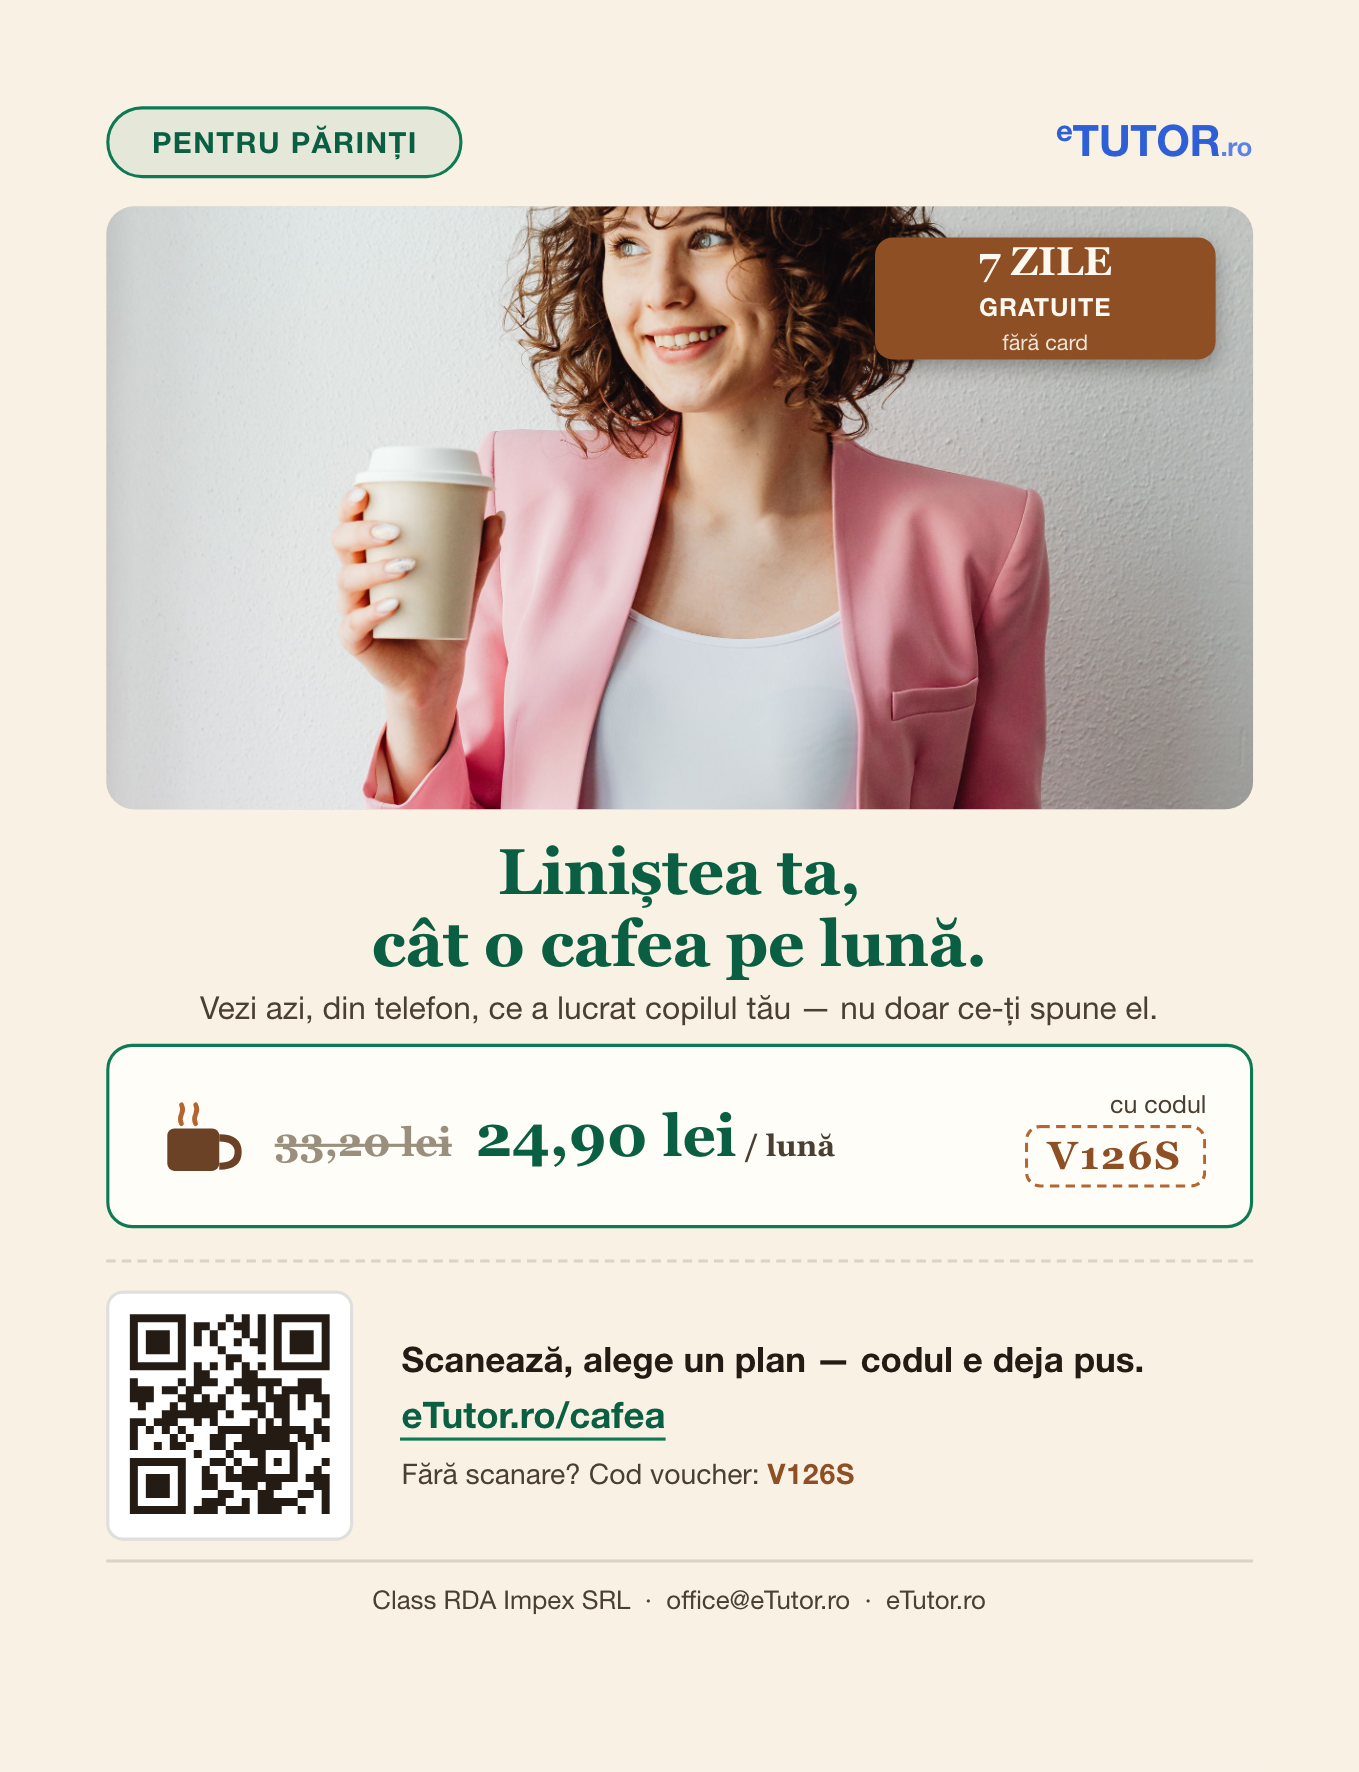
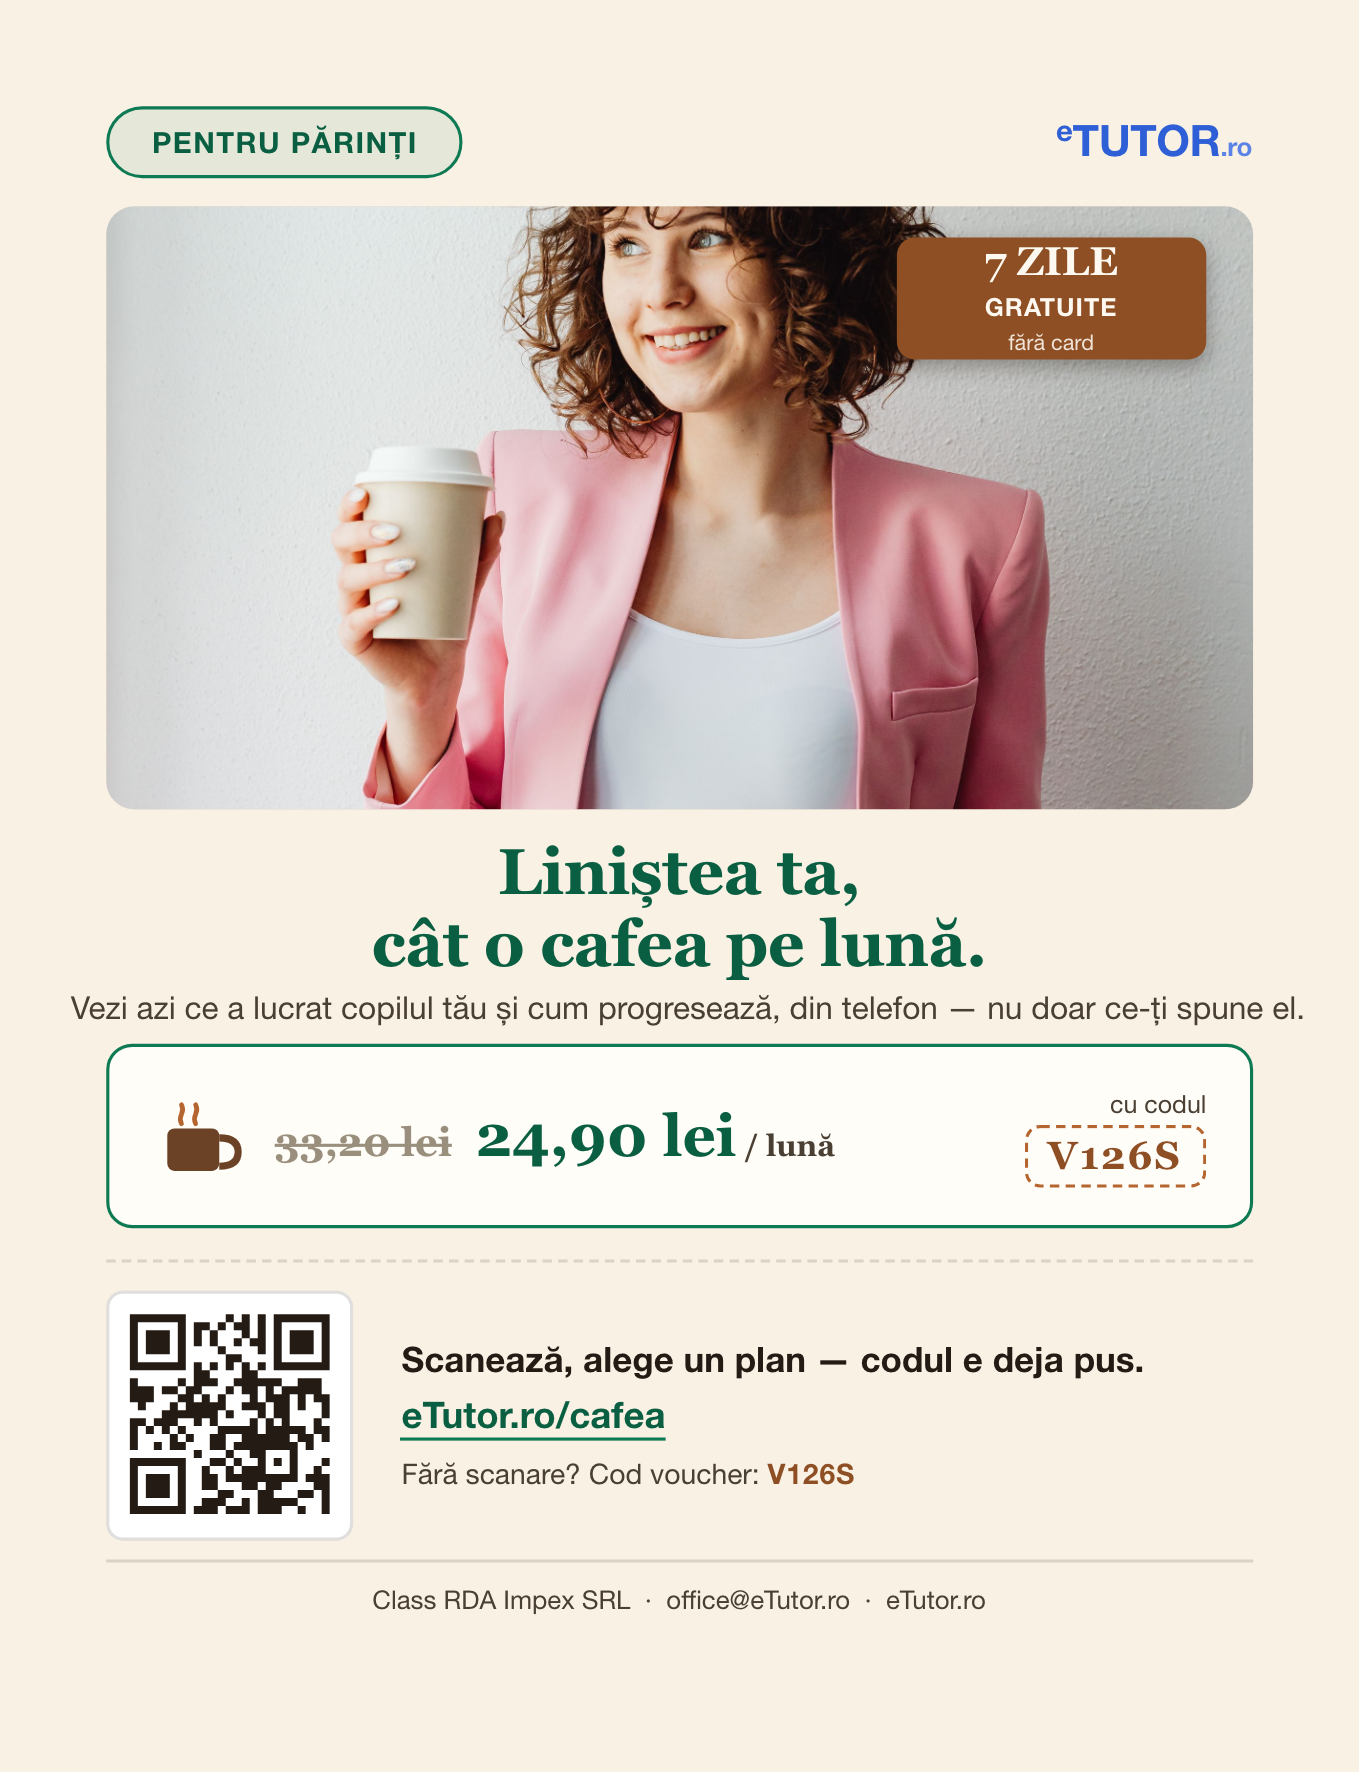
docs(flyer): v3.3 — subtitle names progress explicitly, badge narrower
Subtitle now says "ce a lucrat ... și cum progresează" instead of just
"ce a lucrat" — Alex's point: the app shows progress over time (there
really is a Progress page, dashboard/progress/page.tsx, not invented),
the old copy only covered the today-snapshot half of that.

Trial badge narrowed 29mm->26mm per follow-up feedback ("prea larg").

diff --git a/Reports/flyer-b2c-cafea-2026-09-15/flyer.html b/Reports/flyer-b2c-cafea-2026-09-15/flyer.html
@@ -74,7 +74,7 @@
 
   /* Ecusonul "7 ZILE GRATUITE" — dreptunghiular, pe colțul foto, sub brandmark. */
   .trial-badge {
-    position: absolute; left: 74mm; top: 20mm; width: 29mm; height: 10.5mm;
+    position: absolute; left: 76mm; top: 20mm; width: 26mm; height: 10.5mm;
     border-radius: 1.5mm;
     background: var(--terracotta-dark);
     box-shadow: 0 0.6mm 1.6mm rgba(36,28,20,0.35);
@@ -178,7 +178,7 @@
 
   <h1 class="headline serif">Liniștea ta,<br>cât o cafea pe lună.</h1>
 
-  <p class="sub">Vezi azi, din telefon, ce a lucrat copilul tău — nu doar ce-ți spune el.</p>
+  <p class="sub">Vezi azi ce a lucrat copilul tău și cum progresează, din telefon — nu doar ce-ți spune el.</p>
 
   <div class="price-card">
     <svg class="cup" viewBox="0 0 40 40" xmlns="http://www.w3.org/2000/svg">
